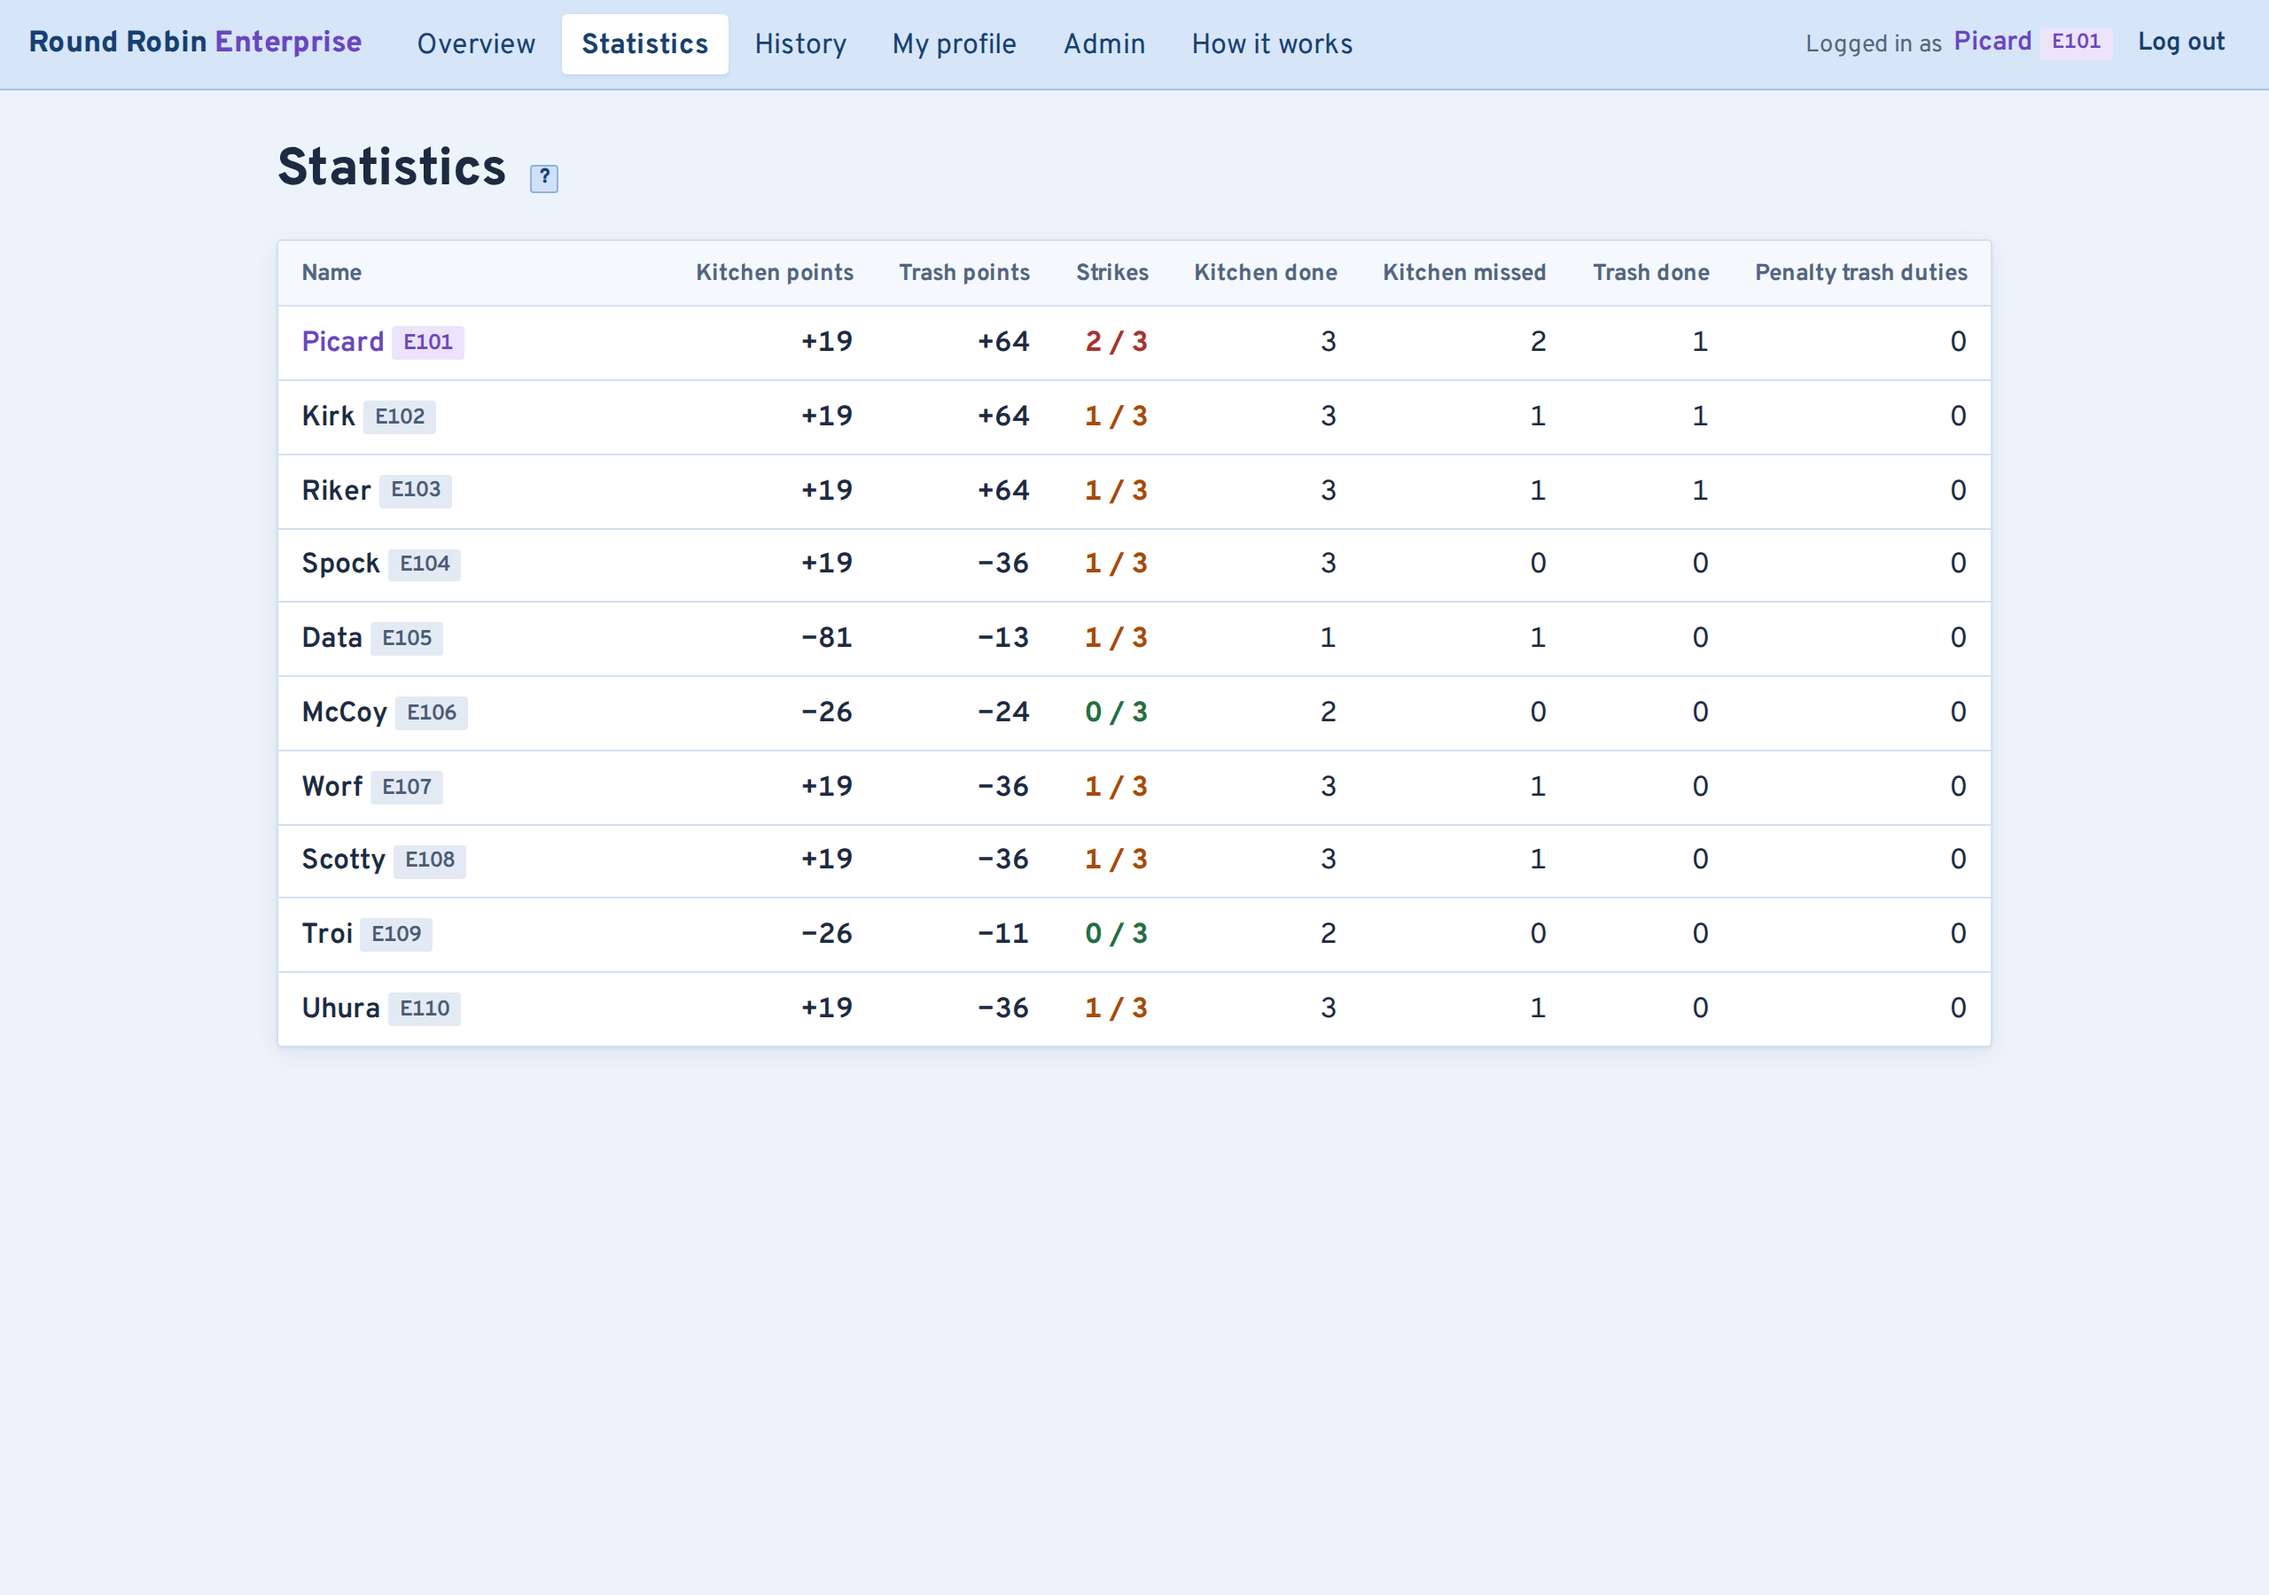
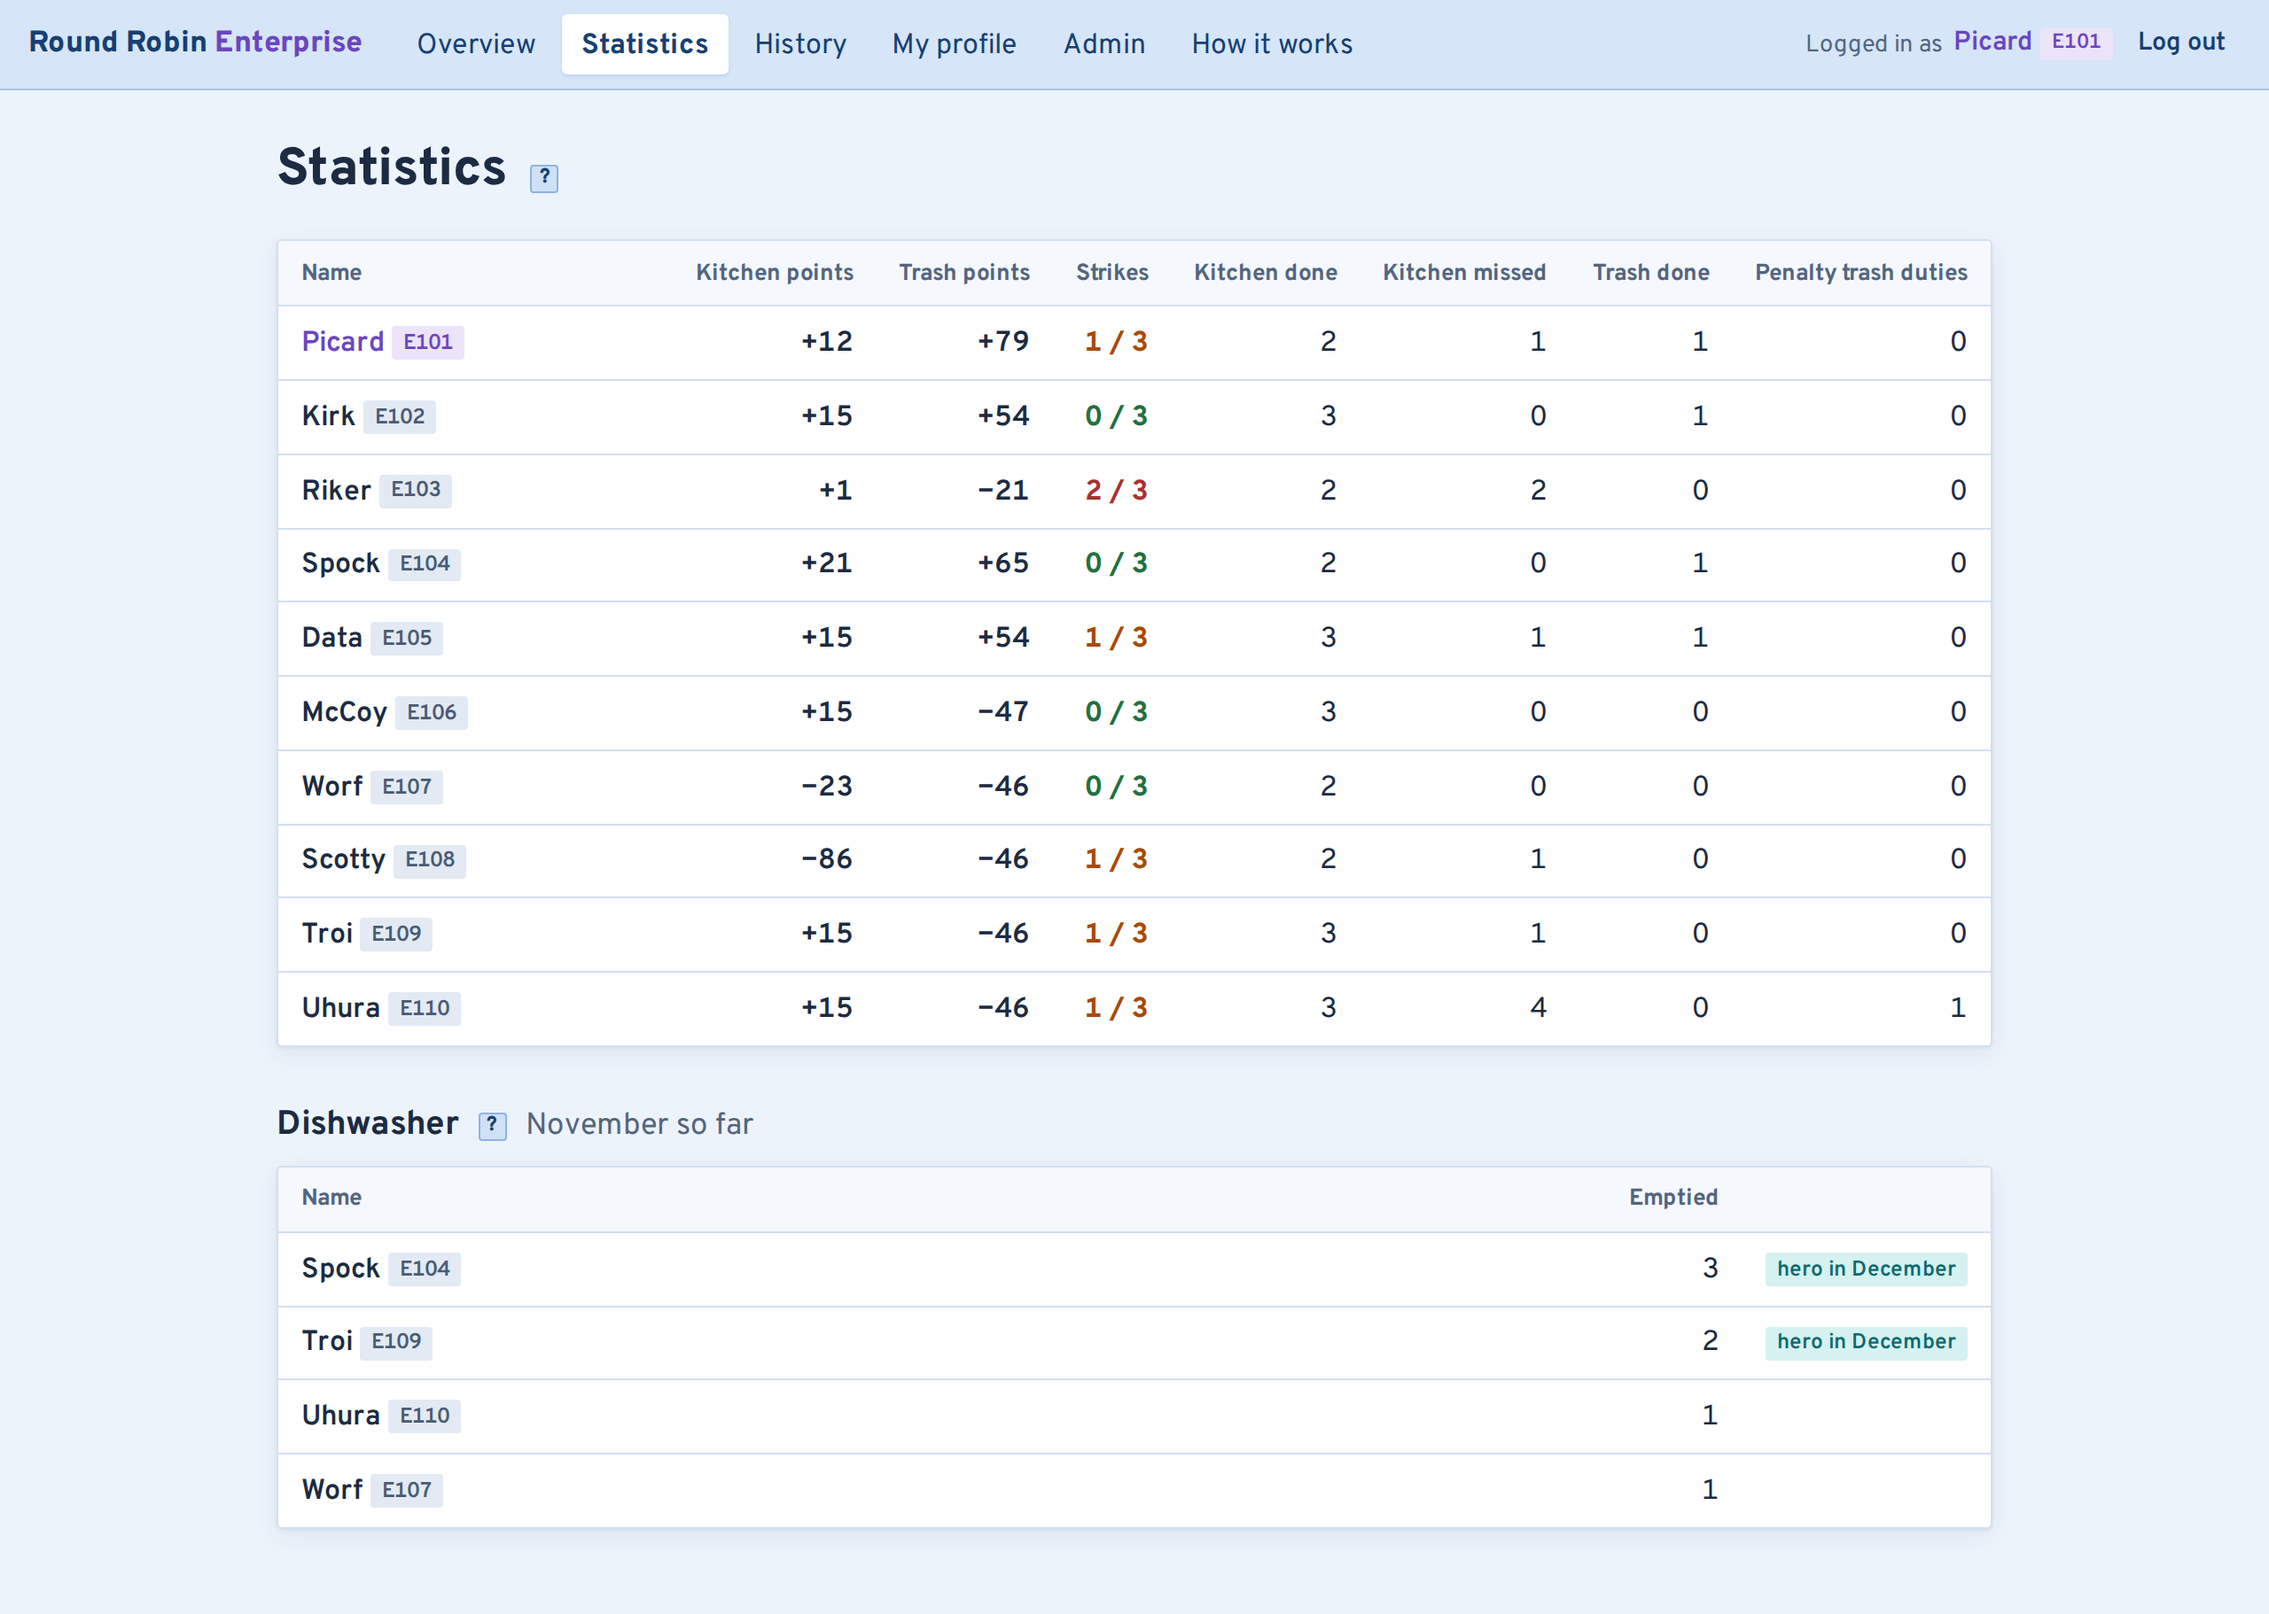
Retake the README screenshots with the dishwasher
Same setup as before (1280x900 at 2x, phone 390 wide, FLOOR_NAME=Enterprise,
logged in as the floor speaker Picard), now showing the dishwasher card,
the hero line above the kitchen preview, and the dishwasher sections on
the statistics and profile pages. Statistics is a full-page shot so its
dishwasher table is visible.

diff --git a/README.md b/README.md
@@ -6,11 +6,11 @@ gets a month off kitchen duty. The UI is in English.
 
 ## Screenshots
 
-<picture><source media="(prefers-color-scheme: dark)" srcset="docs/screenshots/overview-dark.png"><img src="docs/screenshots/overview-light.png" width="820" alt="Overview: today's kitchen and trash duty and the plan for the next 14 days"></picture>
+<picture><source media="(prefers-color-scheme: dark)" srcset="docs/screenshots/overview-dark.png"><img src="docs/screenshots/overview-light.png" width="820" alt="Overview: today's kitchen and trash duty, the dishwasher, and the plan for the next 14 days"></picture>
 
 | Statistics | History |
 |---|---|
-| <picture><source media="(prefers-color-scheme: dark)" srcset="docs/screenshots/statistics-dark.png"><img src="docs/screenshots/statistics-light.png" width="400" alt="Statistics"></picture> | <picture><source media="(prefers-color-scheme: dark)" srcset="docs/screenshots/history-dark.png"><img src="docs/screenshots/history-light.png" width="400" alt="History"></picture> |
+| <picture><source media="(prefers-color-scheme: dark)" srcset="docs/screenshots/statistics-dark.png"><img src="docs/screenshots/statistics-light.png" width="400" alt="Statistics, with this month's dishwasher count"></picture> | <picture><source media="(prefers-color-scheme: dark)" srcset="docs/screenshots/history-dark.png"><img src="docs/screenshots/history-light.png" width="400" alt="History"></picture> |
 | **My profile** | **Admin** |
 | <picture><source media="(prefers-color-scheme: dark)" srcset="docs/screenshots/profile-dark.png"><img src="docs/screenshots/profile-light.png" width="400" alt="My profile"></picture> | <picture><source media="(prefers-color-scheme: dark)" srcset="docs/screenshots/admin-dark.png"><img src="docs/screenshots/admin-light.png" width="400" alt="Admin"></picture> |
 
